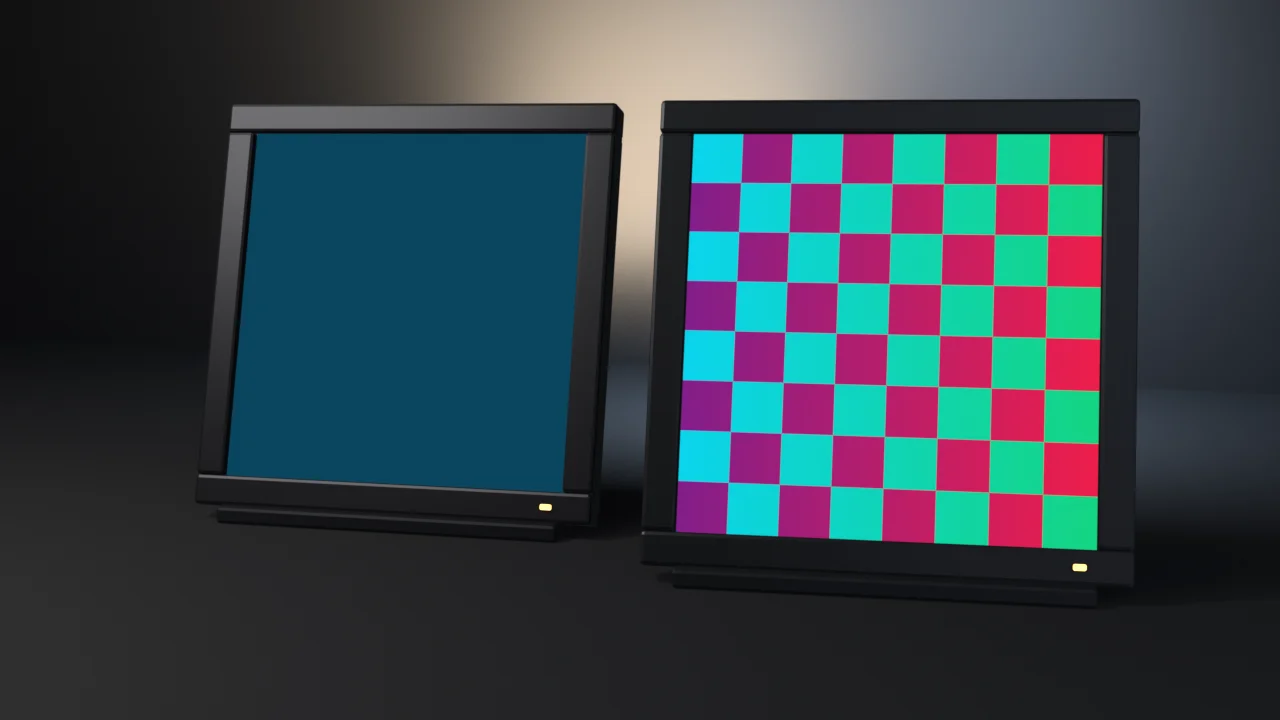
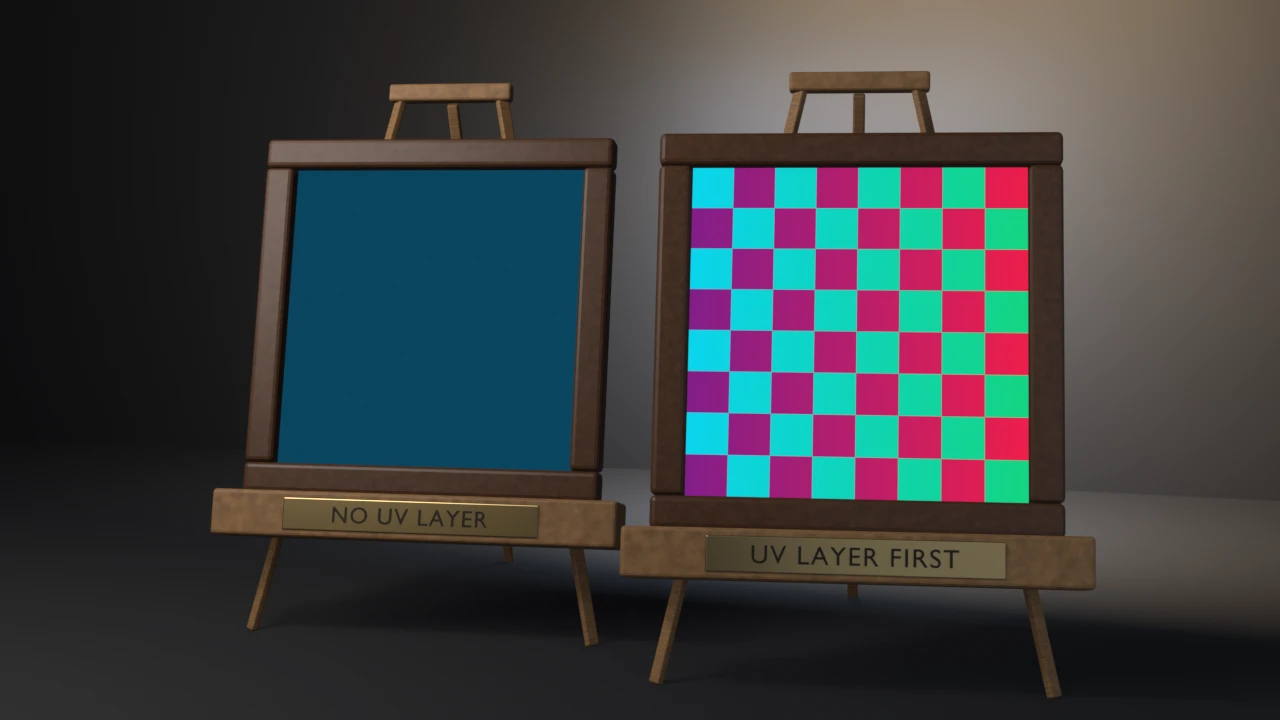
fix(examples): redesign uv-layer-grid as framed tile panels on studio easels
The two lightbox displays read as a working and a dead monitor, so the
flat-teal hazard panel looked broken rather than wrong-UV. Each panel is
now a walnut-framed tile on an oak studio easel with a brass placard on the
ledge: NO UV LAYER (calc_uvs alone -> flat texel (0,0) teal) and
UV LAYER FIRST (pre-create + calc_uvs -> full checker). The face planes,
texture and pixel witness are unchanged. The render path now runs the
gallery_framing gate (exit 10); the missing-render-file check moves
from 10 to 15.

Evidence (live runs, local):
- .scratch/blender-5.2.1-windows-x64/blender.exe (Blender 5.2.1 LTS):
  check-only exit 0; --precreate-on-hazard exits 3 ("calc_uvs=True without
  a pre-existing layer created 1 UV layer(s)"); --output passes the pixel
  witness: broken rgb=(0.037,0.271,0.371) spread 0.0078, fixed spread 0.7569.
- .scratch/blender-4.5.11-windows-x64/blender.exe (Blender 4.5.11 LTS):
  check-only exit 0; --output exit 0 with identical pixel-witness numbers.
- Framing: fill x=0.691 y=0.872, margins l=0.166 r=0.144 b=0.028 t=0.100.
- Contact sheet (docs/gallery/contact-sheets/uv-layer-grid-contact-sheet.webp):
  candidate luma 0.247 / stage 0.200 / warmth -0.255 / sat 0.306, against
  armature-bend 0.279/0.213/-0.428/0.144, damped-track-aim
  0.151/0.145/+0.277/0.231 and bmesh-gear 0.236/0.177/+0.303/0.250.
  Stage and luma fall inside the set's range. Warmth is negative because
  the cyan/teal panels dominate the brightest pixels in the lower half;
[…]

diff --git a/examples/uv-layer-grid/uv_layer_grid.py b/examples/uv-layer-grid/uv_layer_grid.py
@@ -21,6 +21,11 @@ falsifier (``--same-axis`` in export-preset-axis).
 import bpy, bmesh, sys, os, math, argparse
 from mathutils import Vector
 
+# Shared Layer 1 framing measurement (render path only) — see
+# gallery_framing.py for the __file__-relative import shim this relies on.
+sys.path.insert(0, os.path.join(os.path.dirname(os.path.abspath(__file__)), os.pardir))
+import gallery_framing  # noqa: E402
+
 SEG = 8
 SIZE = 1.0
 UV_TOL = 1e-6
@@ -247,24 +252,44 @@ def render_still(path, engine):
     scene = bpy.context.scene
     card = make_uv_testcard("UVCard")
 
-    # --- Staging materials: quiet and dark, the panel faces carry the color --
-    def pbr(name, base, rough, metal=0.0):
+    # --- Staging materials: wood easels, walnut frames, brass placards -----
+    def pbr(name, base, rough, metal=0.0, noise=None):
         m = bpy.data.materials.new(name)
         m.use_nodes = True
-        b = m.node_tree.nodes["Principled BSDF"]
+        nt = m.node_tree
+        b = nt.nodes["Principled BSDF"]
         b.inputs["Base Color"].default_value = (*base, 1.0)
         b.inputs["Roughness"].default_value = rough
         b.inputs["Metallic"].default_value = metal
+        if noise:
+            # grain/wear: a stretched noise mottles base color and roughness
+            scale, amount = noise
+            coord = nt.nodes.new("ShaderNodeTexCoord")
+            mapping = nt.nodes.new("ShaderNodeMapping")
+            mapping.inputs["Scale"].default_value = (1.0, 1.0, 9.0)
+            tex = nt.nodes.new("ShaderNodeTexNoise")
+            tex.inputs["Scale"].default_value = scale
+            tex.inputs["Detail"].default_value = 8.0
+            ramp = nt.nodes.new("ShaderNodeValToRGB")
+            ramp.color_ramp.elements[0].position = 0.35
+            ramp.color_ramp.elements[1].position = 0.68
+            ramp.color_ramp.elements[0].color = (*(c * (1 - amount) for c in base), 1.0)
+            ramp.color_ramp.elements[1].color = (*(min(1.0, c * (1 + amount)) for c in base), 1.0)
+            nt.links.new(coord.outputs["Object"], mapping.inputs["Vector"])
+            nt.links.new(mapping.outputs["Vector"], tex.inputs["Vector"])
+            nt.links.new(tex.outputs["Fac"], ramp.inputs["Fac"])
+            nt.links.new(ramp.outputs["Color"], b.inputs["Base Color"])
         return m
 
-    frame_mat = pbr("Frame", (0.05, 0.053, 0.06), 0.32, 0.65)
-    stand_mat = pbr("Stand", (0.032, 0.035, 0.042), 0.45, 0.4)
-    led_mat = pbr("Led", (0.0, 0.0, 0.0), 0.6)
-    led_b = led_mat.node_tree.nodes["Principled BSDF"]
-    led_b.inputs["Emission Color"].default_value = (1.0, 0.45, 0.12, 1.0)
-    led_b.inputs["Emission Strength"].default_value = 4.0
+    oak = pbr("EaselOak", (0.42, 0.22, 0.09), 0.55, noise=(16.0, 0.22))
+    walnut = pbr("FrameWalnut", (0.13, 0.055, 0.025), 0.38, noise=(24.0, 0.20))
+    backing = pbr("Backing", (0.035, 0.03, 0.028), 0.8)
+    brass = pbr("PlacardBrass", (0.80, 0.58, 0.26), 0.28, metal=1.0)
+    ink = pbr("PlacardInk", (0.012, 0.011, 0.010), 0.5)
 
-    def box(name, dims, loc, rot, mat, bevel=0.0):
+    parts = []
+
+    def box(name, dims, loc, rot, mat, bevel=0.0, parent=None):
         dx, dy, dz = (d * 0.5 for d in dims)
         verts = [
             (-dx, -dy, -dz), (dx, -dy, -dz), (dx, dy, -dz), (-dx, dy, -dz),
@@ -280,75 +305,97 @@ def render_still(path, engine):
         ob = bpy.data.objects.new(name, me)
         ob.location = loc
         ob.rotation_euler = rot
+        ob.parent = parent
         scene.collection.objects.link(ob)
         if bevel > 0.0:
             mod = ob.modifiers.new("Edge", "BEVEL")
             mod.width = bevel
-            mod.segments = 2
+            mod.segments = 3
+            mod.limit_method = "NONE"
+        parts.append(ob)
         return ob
 
-    def bar_between(name, p1, p2, width, mat):
+    def bar_between(name, p1, p2, width, depth, mat):
         a, b = Vector(p1), Vector(p2)
         d = b - a
-        ob = box(name, (width, width, d.length), (a + b) * 0.5, (0, 0, 0), mat, 0.01)
+        ob = box(name, (width, depth, d.length), (a + b) * 0.5, (0, 0, 0), mat, 0.012)
         ob.rotation_mode = "QUATERNION"
         ob.rotation_quaternion = d.to_track_quat("Z", "Y")
         return ob
 
-    # --- Two framed lightbox displays, each on a floor tray with a rear
-    # kick leg. The face planes keep their origins at the face centers (the
-    # pixel witness probes the projected centers), with a ~0.2-unit bezel
-    # between the face edge and the frame so the probed patch stays on data.
-    LEAN = math.radians(75.0)  # 15° back off vertical, easel-like
+    def label(name, text, loc, parent):
+        cu = bpy.data.curves.new(name, "FONT")
+        cu.body = text
+        cu.align_x = "CENTER"
+        cu.align_y = "CENTER"
+        cu.size = 0.15
+        cu.extrude = 0.004
+        cu.space_character = 1.12
+        ob = bpy.data.objects.new(name, cu)
+        ob.data.materials.append(ink)
+        ob.location = loc
+        ob.parent = parent
+        scene.collection.objects.link(ob)
+        parts.append(ob)
+        return ob
 
-    def display(name, with_uvs, cx, cy, yaw_deg):
+    # --- Two studio easels, each holding a walnut-framed tile panel. The face
+    # planes keep their origins at the face centers (the pixel witness probes
+    # the projected centers); the panel rests on the easel ledge, and a brass
+    # placard on the ledge names which authoring path produced the panel.
+    LEAN = math.radians(76.0)  # 14 degrees back off vertical, easel-like
+    LEDGE_Z = 0.62             # world height of the ledge underside
+
+    def display(name, with_uvs, cx, cy, yaw_deg, caption):
         yaw = math.radians(yaw_deg)
         asm = bpy.data.objects.new(name + "Asm", None)
         asm.rotation_euler = (LEAN, 0.0, yaw)
         rot = asm.rotation_euler.to_matrix()
-        # Face-center height such that the frame's bottom edge rests in tray.
-        contact = rot @ Vector((0.0, -1.17, 0.02))
-        asm.location = (cx, cy, 0.07 - contact.z)
+        # local +Y runs up the panel, local +Z faces the camera
+        ledge_low = rot @ Vector((0.0, -1.49, 0.0))
+        asm.location = (cx, cy, LEDGE_Z - ledge_low.z)
         scene.collection.objects.link(asm)
+        base = Vector(asm.location)
 
-        # Left: the hazard — calc_uvs alone, no UV layer → flat teal of
+        # Left: the hazard — calc_uvs alone, no UV layer -> flat teal of
         # texel (0,0). Right: the repair — pre-create, then calc_uvs fills.
         face = textured_plane(name, card, with_uvs)
         face.parent = asm
-        face.location = (0.0, 0.0, 0.075)
+        face.location = (0.0, 0.0, 0.06)
+        parts.append(face)
 
-        plate = box(name + "Back", (2.34, 2.34, 0.14), (0, 0, 0), (0, 0, 0),
-                    frame_mat, 0.02)
-        plate.parent = asm
-        bezels = (
-            ((2.34, 0.17, 0.20), (0.0, 1.085, 0.02)),
-            ((2.34, 0.17, 0.20), (0.0, -1.085, 0.02)),
-            ((0.17, 2.0, 0.20), (1.085, 0.0, 0.02)),
-            ((0.17, 2.0, 0.20), (-1.085, 0.0, 0.02)),
-        )
-        for i, (dims, loc) in enumerate(bezels):
-            bez = box(f"{name}Bez{i}", dims, loc, (0, 0, 0), frame_mat, 0.02)
-            bez.parent = asm
-        led = box(name + "Led", (0.06, 0.03, 0.035), (0.92, -1.085, 0.128),
-                  (0, 0, 0), led_mat, 0.008)
-        led.parent = asm
-
-        base = asm.location
-        box(name + "Tray", (2.0, 0.32, 0.10),
-            (base.x + contact.x, base.y + contact.y, 0.05),
-            (0, 0, yaw), stand_mat, 0.02)
+        box(name + "Board", (2.26, 2.26, 0.07), (0, 0, 0.0), (0, 0, 0), backing,
+            0.01, asm)
+        for i, (dims, loc) in enumerate((
+            ((2.40, 0.20, 0.17), (0.0, 1.10, 0.07)),
+            ((2.40, 0.20, 0.17), (0.0, -1.10, 0.07)),
+            ((0.20, 2.00, 0.17), (1.10, 0.0, 0.07)),
+            ((0.20, 2.00, 0.17), (-1.10, 0.0, 0.07)),
+        )):
+            box(f"{name}Frame{i}", dims, loc, (0, 0, 0), walnut, 0.035, asm)
+        # ledge the frame stands on, and the brass placard on its front face
+        box(name + "Ledge", (2.70, 0.30, 0.34), (0.0, -1.34, 0.10), (0, 0, 0),
+            oak, 0.025, asm)
+        box(name + "Placard", (1.70, 0.21, 0.02), (0.0, -1.34, 0.275), (0, 0, 0),
+            brass, 0.008, asm)
+        label(name + "Caption", caption, (0.0, -1.345, 0.287), asm)
+        # easel: two splayed front legs behind the panel plane, a rear prop
+        for side in (-1.0, 1.0):
+            top = base + rot @ Vector((side * 0.34, 1.62, -0.10))
+            splay = (rot @ Vector((side * 0.22, -1.0, 0.0))).normalized()
+            t = top.z / -splay.z
+            bar_between(f"{name}Leg{side:+.0f}", top, top + splay * t, 0.085, 0.05, oak)
         back = rot @ Vector((0.0, 0.0, -1.0))
         back.z = 0.0
         back.normalize()
-        for side in (-0.75, 0.75):
-            attach = base + rot @ Vector((side, 0.55, -0.12))
-            foot = (base.x + contact.x + side * math.cos(yaw) + back.x * 0.85,
-                    base.y + contact.y - side * math.sin(yaw) + back.y * 0.85,
-                    0.02)
-            bar_between(f"{name}Leg{side:+.2f}", attach, foot, 0.06, stand_mat)
+        rear_top = base + rot @ Vector((0.0, 1.52, -0.14))
+        rear_foot = Vector((rear_top.x, rear_top.y, 0.0)) + back * 1.45
+        bar_between(name + "Rear", rear_top, rear_foot, 0.075, 0.05, oak)
+        box(name + "Head", (0.86, 0.12, 0.10), tuple(base + rot @ Vector((0.0, 1.58, -0.09))),
+            asm.rotation_euler, oak, 0.02)
 
-    display("Broken", False, -1.38, 0.30, 6.0)
-    display("Fixed", True, 1.45, -0.10, 9.0)
+    display("Broken", False, -1.45, 0.25, 7.0, "NO UV LAYER")
+    display("Fixed", True, 1.45, -0.10, 10.0, "UV LAYER FIRST")
 
     floor_me = bpy.data.meshes.new("Floor")
     bm = bmesh.new()
@@ -391,19 +438,18 @@ def render_still(path, engine):
     light("Key", (-4.4, -4.2, 6.4), 340.0, 5.0, (1.0, 0.96, 0.9), (60, 0, -32))
     light("Fill", (4.8, -2.8, 1.6), 80.0, 9.0, (0.75, 0.85, 1.0), (72, 0, 52))
     light("Rim", (0.2, 4.6, 3.0), 250.0, 3.5, (0.6, 0.78, 1.0), (-42, 0, 178))
-    # Uplight between the displays and the wall, raking UP the backdrop: the
-    # visible wall band above the panel tops only spans z≈2.8–3.4, so the
-    # warm pool is aimed to live there instead of hiding behind the panels.
-    light("Wedge", (-2.2, 5.6, 2.3), 480.0, 3.0, (1.0, 0.76, 0.5), (-117, 0, 180))
+    # Warm wedge raking the backdrop between and beside the easels, so the
+    # pool reads in the gaps around the panels (docs/VISUAL-STYLE.md).
+    light("Wedge", (1.2, 4.2, 4.6), 620.0, 5.0, (1.0, 0.72, 0.44), (-62, 0, 172))
 
     aim = bpy.data.objects.new("Aim", None)
-    aim.location = (0.1, 0.05, 1.0)
+    aim.location = (0.05, 0.05, 1.85)
     scene.collection.objects.link(aim)
 
     cam_data = bpy.data.cameras.new("Cam")
     cam_data.lens = 48.0
     cam = bpy.data.objects.new("Cam", cam_data)
-    cam.location = (3.1, -8.35, 2.2)
+    cam.location = (3.2, -10.2, 2.9)
     con = cam.constraints.new("TRACK_TO")
     con.target = aim
     con.track_axis = "TRACK_NEGATIVE_Z"
@@ -425,8 +471,14 @@ def render_still(path, engine):
     scene.render.filepath = path
     # AgX desaturates the neon checker toward pastel — Standard keeps it honest.
     scene.view_settings.view_transform = "Standard"
+    bpy.context.view_layer.update()
+    # Layer 1 framing gate before the beauty render (exit 10 on violation)
+    fcode = gallery_framing.check_framing(scene, cam, hero=parts, elements=parts,
+                                          stage=[floor, wall])
+    if fcode:
+        return fcode
     bpy.ops.render.render(write_still=True)
-    return os.path.exists(path) and os.path.getsize(path) > 0
+    return 0 if os.path.exists(path) and os.path.getsize(path) > 0 else 15
 
 
 def patch_stats(px, w, h, cx, cy, half):
@@ -518,8 +570,11 @@ def main():
     if args.output:
         # check() already emptied the scene; rebuild for the still.
         out = os.path.abspath(args.output)
-        if not render_still(out, args.engine):
-            return fail(f"render produced no file at {args.output}", 10)
+        rcode = render_still(out, args.engine)
+        if rcode == 15:
+            return fail(f"render produced no file at {args.output}", 15)
+        if rcode:
+            return rcode
         code = verify_still(out)
         if code != 0:
             return code

diff --git a/examples/uv-layer-grid/README.md b/examples/uv-layer-grid/README.md
@@ -47,14 +47,16 @@ fill assert identically on Blender 4.5 LTS and 5.1. The only gate in the file
 is the EEVEE engine id for the optional render (`BLENDER_EEVEE_NEXT` on 4.x,
 `BLENDER_EEVEE` on 5.x).
 
-**Render:** two framed lightbox displays on floor trays (rear kick legs,
-status LED) sharing one neon checker image, shot at a slight 3/4. Left is the
-hazard (no UV layer) — flat teal of texel (0, 0). Right is the repair
-(pre-create + `calc_uvs`) — full magenta/cyan checker. If the UV contract
+**Render:** two oak studio easels, each holding a walnut-framed tile panel that
+shares one neon checker image, with a brass placard on the easel ledge naming the
+authoring path. Left, `NO UV LAYER`, is the hazard — `calc_uvs=True` alone, so the
+whole panel is the flat teal of texel (0, 0). Right, `UV LAYER FIRST`, is the repair
+(pre-create + `calc_uvs`) — the full magenta/cyan checker. If the UV contract
 failed, both panels would read the same — and the still is not just an
 illustration: the script re-reads its own render and exits non-zero unless
-the pixels prove the flat-vs-checker split (measured on 5.1.2: hazard spread
-`0.0078`, repair spread `0.7412`; identical on 4.5.11).
+the pixels prove the flat-vs-checker split (measured on 5.2.1: hazard spread
+`0.0078`, repair spread `0.7569`; identical on 4.5.11). The render path gates
+framing through `examples/gallery_framing.py` (exit 10) before writing the still.
 
 ## Run
 
@@ -73,8 +75,8 @@ blender --background --python uv_layer_grid.py -- --output uv.png --engine cycle
 ## Exit codes
 
 Per-script sequential checks. `9` is a valid check code; there is no rule
-against it. This example does not call the gallery framing helper; `10`
-is the missing-render-file check.
+against it. `10` is the shared gallery framing gate; `15` is the
+missing-render-file check.
 
 | Code | Meaning |
 | --- | --- |
@@ -88,11 +90,12 @@ is the missing-render-file check.
 | 7 | Mesh UV round-trip error |
 | 8 | calc_uvs=False unexpectedly created a UV layer |
 | 9 | Explicit UV assignment error |
-| 10 | `--output` produced no file |
+| 10 | Framing gate violation on the `--output` path (`gallery_framing`) |
 | 11 | Broken panel is not flat |
 | 12 | Broken panel is not texel-(0,0) teal |
 | 13 | Repaired panel is not a checker |
 | 14 | Broken and repaired panels render identically |
+| 15 | `--output` produced no file |
 
 The `blender-smoke` workflow runs the check on Blender 5.2 LTS and 4.5 LTS
 (5.1 on the weekly cron, the `needs-5.1` PR label, or manual dispatch).

diff --git a/README.md b/README.md
@@ -371,7 +371,7 @@ result is watertight (every edge borders exactly two faces).
 </tr>
 <tr>
 <td width="46%" valign="middle">
-<a href="examples/uv-layer-grid/"><img src="examples/uv-layer-grid/preview.webp" alt="UV layer grid: two framed lightbox displays on floor trays against a dark studio wall — left one flat teal face (the calc_uvs silent no-op hazard), right a saturated magenta-cyan checker (the pre-create repair), under a warm wall pool" /></a>
+<a href="examples/uv-layer-grid/"><img src="examples/uv-layer-grid/preview.webp" alt="UV layer grid: two walnut-framed tile panels on oak studio easels with brass placards — left, NO UV LAYER, one flat teal face (the calc_uvs silent no-op hazard), right, UV LAYER FIRST, a saturated magenta-cyan checker (the pre-create repair), under a warm wall pool" /></a>
 </td>
 <td valign="middle">
 
